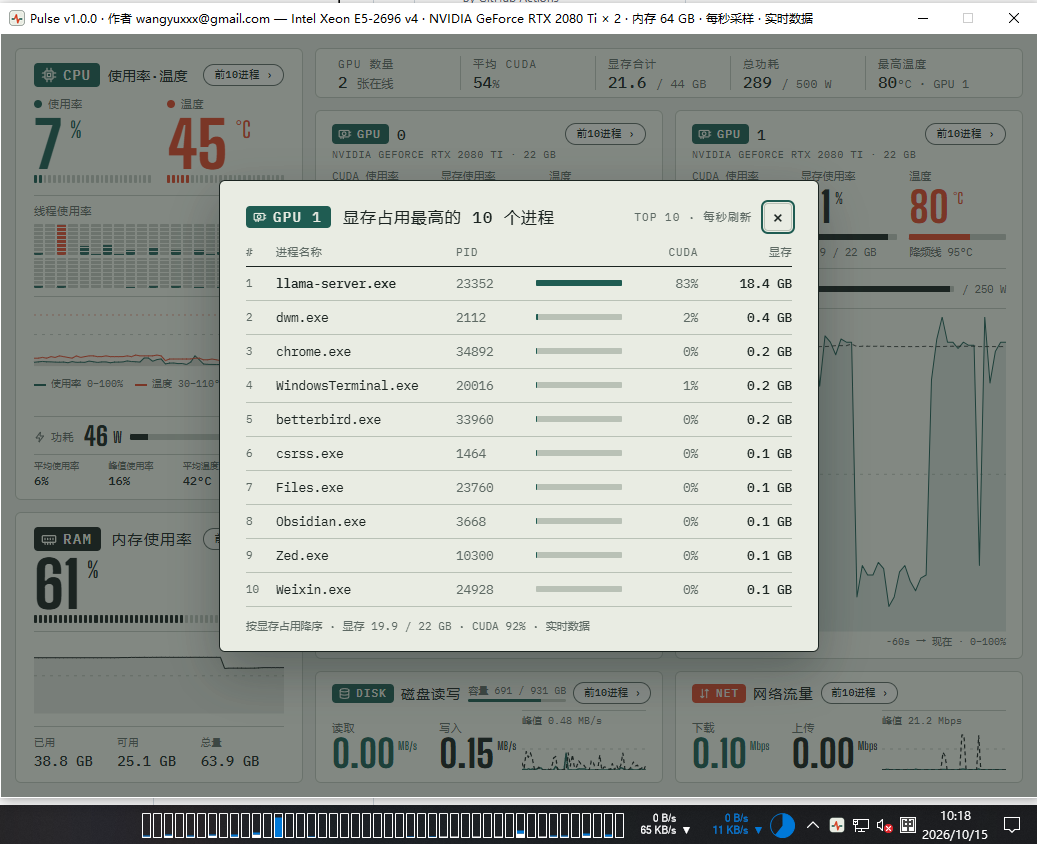
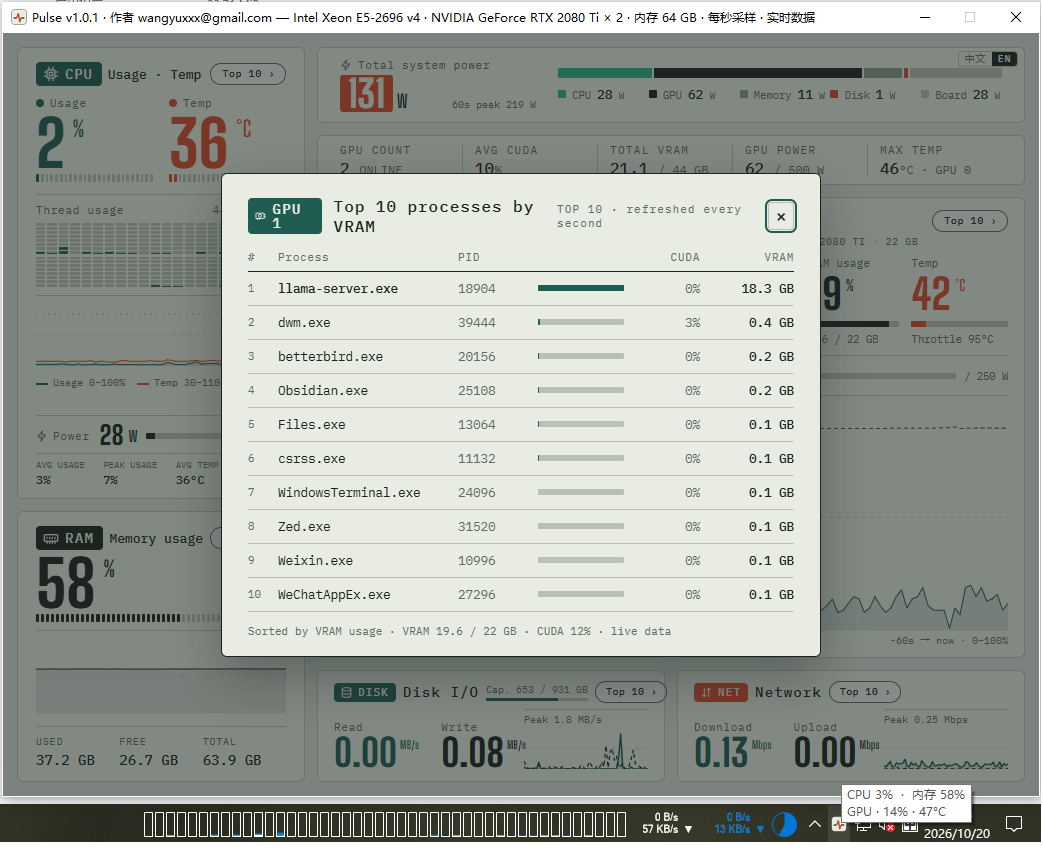
v1.0.1: 整机总功耗卡片, 中文/EN 切换, 更新截图

diff --git a/pulse.html b/pulse.html
@@ -1,6 +1,6 @@
 <!doctype html>
 <html lang="zh-CN"><head><meta charset="utf-8">
-<title>硬件监控 v1.0.0 · 作者 wangyuxxx@gmail.com — Intel Xeon E5-2699 v4 · NVIDIA RTX 4090 × 2 · 内存 64 GB · 每秒采样 · 模拟数据</title>
+<title>硬件监控 v1.0.1 · 作者 wangyuxxx@gmail.com — Intel Xeon E5-2699 v4 · NVIDIA RTX 4090 × 2 · 内存 64 GB · 每秒采样 · 模拟数据</title>
 <link rel="preconnect" href="https://fonts.googleapis.com"><link rel="preconnect" href="https://fonts.gstatic.com" crossorigin>
 <link href="https://fonts.googleapis.com/css2?family=Big+Shoulders+Display:wght@600;800&family=IBM+Plex+Mono:wght@400;500&display=swap" rel="stylesheet">
 <style>
@@ -101,7 +101,7 @@ body{background:var(--paper);color:var(--ink);font-family:"IBM Plex Mono","Micro
 .hit:active{transform:translateY(0);box-shadow:0 0 0 1px var(--ink) inset}
 .hit{transition:border-color .15s,box-shadow .15s,background .15s,transform .15s}
 .cpucol .head>span:last-child{display:none}
-.cpucol .head::after,.gh::after{content:"前10进程  ›";font:500 10px/1 "IBM Plex Mono","Microsoft YaHei",monospace;letter-spacing:.06em;white-space:nowrap;text-transform:none;color:var(--ink);border:1px solid var(--soft);border-radius:999px;padding:5px 10px 5px 11px;background:rgba(255,255,255,.35);transition:background .15s,color .15s,border-color .15s}
+.cpucol .head::after,.gh::after{content:var(--top10);font:500 10px/1 "IBM Plex Mono","Microsoft YaHei",monospace;letter-spacing:.06em;white-space:nowrap;text-transform:none;color:var(--ink);border:1px solid var(--soft);border-radius:999px;padding:5px 10px 5px 11px;background:rgba(255,255,255,.35);transition:background .15s,color .15s,border-color .15s}
 .cpucol .head::after{align-self:center}
 .gh{flex-wrap:wrap;align-items:center;row-gap:3px}
 .gh b{flex:1}
@@ -176,7 +176,7 @@ body{background:var(--paper);color:var(--ink);font-family:"IBM Plex Mono","Micro
 .clg span:last-child{margin-left:auto}
 .stats.s4{display:grid;grid-template-columns:1fr 1fr;gap:8px 0}
 
-.ih::after{content:"前10进程  ›";flex:none;font:500 10px/1 "IBM Plex Mono","Microsoft YaHei",monospace;letter-spacing:.04em;white-space:nowrap;color:var(--ink);border:1px solid var(--soft);border-radius:999px;padding:5px 9px 5px 10px;background:rgba(255,255,255,.35);transition:background .15s,color .15s,border-color .15s}
+.ih::after{content:var(--top10);flex:none;font:500 10px/1 "IBM Plex Mono","Microsoft YaHei",monospace;letter-spacing:.04em;white-space:nowrap;color:var(--ink);border:1px solid var(--soft);border-radius:999px;padding:5px 9px 5px 10px;background:rgba(255,255,255,.35);transition:background .15s,color .15s,border-color .15s}
 .ih small{margin-left:auto;letter-spacing:0}
 .dcap{margin-left:auto;display:flex;flex-direction:column;gap:3px;font-size:10px;line-height:11px;letter-spacing:0;white-space:nowrap;color:var(--soft)}
 .ih .dcap b{font-size:10px;font-weight:600;letter-spacing:0;color:var(--ink)}
@@ -214,9 +214,62 @@ body{background:var(--paper);color:var(--ink);font-family:"IBM Plex Mono","Micro
 .gsum div{padding-left:12px}
 .gsum b{font-size:16px}
 .dash{gap:12px}
+.sys{flex:none;display:grid;grid-template-columns:196px minmax(0,1fr);gap:22px;align-items:center;background:var(--card);color:var(--ink);border:1px solid var(--rule);border-radius:6px;padding:8px 22px;height:76px}
+.sys .sl{display:flex;flex-direction:column;gap:3px;min-width:0}
+.sys .sl label{display:flex;align-items:center;gap:6px;font-size:10.5px;letter-spacing:.1em;color:var(--soft);white-space:nowrap}
+.sys .sl label svg{flex:none}
+.sys .sn{display:flex;align-items:baseline;gap:6px;font-family:"Big Shoulders Display",sans-serif;font-weight:800;line-height:.9;font-variant-numeric:tabular-nums}
+.sys .sn b{font-size:38px;font-weight:800;letter-spacing:-.005em;padding:2px 8px 0;margin:0 -2px 0 0;background:#D9482B;color:var(--card);border-radius:3px}
+.sys .sn u{text-decoration:none;font-size:18px;font-weight:600;color:var(--ink)}
+.sys .sn small{margin-left:auto;font:400 10px "IBM Plex Mono","Microsoft YaHei",monospace;color:var(--soft);white-space:nowrap}
+.sys .sr{display:flex;flex-direction:column;gap:8px;min-width:0}
+.sys .sbar{display:flex;height:10px;gap:2px;border-radius:1px;overflow:hidden}
+.sys .sbar i{display:block;height:100%;min-width:2px;transition:width .6s}
+.sys .sbar.off i{display:none}
+.sys .sleg{display:grid;grid-template-columns:repeat(5,minmax(0,1fr));gap:0 10px}
+.sys .sleg div{display:flex;align-items:baseline;gap:6px;font-size:10.5px;color:var(--soft);white-space:nowrap;min-width:0}
+.sys .sleg i{flex:none;width:8px;height:8px;border-radius:1px;align-self:center}
+.sys .sleg b{font-weight:500;font-size:13px;color:var(--ink);font-variant-numeric:tabular-nums}
+.sys .sleg em{font-style:normal;font-size:10px;color:var(--soft)}
+:root{--top10:"前10进程  ›"}
+:root[data-lang=en]{--top10:"Top 10  ›"}
+:root[data-lang=en] .cpucol .panel .cpuhead b{text-transform:none;letter-spacing:0;gap:6px;font-size:13px}
+.sys{position:relative}
+.lang{position:absolute;top:3px;right:6px;display:flex;border:1px solid var(--rule);border-radius:4px;overflow:hidden;z-index:2}
+.lang button{font:500 10px/1 "IBM Plex Mono","Microsoft YaHei",monospace;letter-spacing:.06em;padding:2px 6px;background:none;border:0;color:var(--soft);cursor:pointer}
+.lang button[aria-pressed=true]{background:var(--ink);color:var(--card)}
+.lang button:focus-visible{outline:2px solid var(--usage);outline-offset:-2px}
 </style></head><body>
+<script>
+(function(){
+  var D={'整机总功耗':'Total system power','内存':'Memory','硬盘':'Disk','主板':'Board',
+  'GPU 数量':'GPU count','张在线':'online','平均 CUDA':'Avg CUDA','显存合计':'Total VRAM','GPU 功耗':'GPU power','最高温度':'Max temp',
+  'CUDA 使用率':'CUDA usage','核心负载':'Core load','显存使用率':'VRAM usage','温度':'Temp','降频线 95°C':'Throttle 95°C','功耗':'Power','显存':'VRAM',
+  '-60s → 现在 · 0–100%':'-60s → now · 0–100%','使用率·温度':'Usage · Temp','使用率':'Usage','使用率 0–100%':'Usage 0–100%','温度 30–110°C':'Temp 30–110°C','-60s → 现在':'-60s → now',
+  '线程使用率':'Thread usage','44 线程':'44 threads','平均使用率':'Avg usage','峰值使用率':'Peak usage','平均温度':'Avg temp','峰值温度':'Peak temp',
+  '内存使用率':'Memory usage','已用':'Used','可用':'Free','总量':'Total','磁盘读写':'Disk I/O','容量':'Cap.','读取':'Read','写入':'Write','网络流量':'Network','下载':'Download','上传':'Upload',
+  '磁盘容量:已用 1.43 TB,剩余 0.57 TB,共 2 TB (NVMe SSD)':'Disk capacity: 1.43 TB used, 0.57 TB free, 2 TB total (NVMe SSD)',
+  '各 CPU 线程使用率竖条图':'Per-thread CPU usage bar chart','查看占用最高的10个进程':'View top 10 processes','关闭':'Close',
+  '峰值':'Peak','60s 峰值':'60s peak','线程':'Thread','TOP 10 · 每秒刷新':'TOP 10 · refreshed every second','进程名称':'Process',
+  'CPU 占用最高的 10 个进程':'Top 10 processes by CPU','内存占用最高的 10 个进程':'Top 10 processes by memory','显存占用最高的 10 个进程':'Top 10 processes by VRAM',
+  '磁盘读写最高的 10 个进程':'Top 10 processes by disk I/O','网络流量最高的 10 个进程':'Top 10 processes by network traffic'};
+  var saved=null;try{saved=localStorage.getItem('hwm-lang')}catch(e){}
+  var L=window.L={D:D,lang:saved==='en'?'en':'zh'};
+  L.en=L.lang==='en';
+  /* t('峰值 ') keeps surrounding whitespace so callers can concatenate */
+  L.t=function(s){if(!L.en)return s;var k=s.trim();return D.hasOwnProperty(k)?s.replace(k,D[k]):s};
+})();
+</script>
 <div class="dash">
 <main class="gview" id="vGpu">
+  <div class="sys" id="sysPw" role="group" aria-label="整机总功耗">
+    <div class="lang" role="group" aria-label="Language / 语言"><button type="button" data-l="zh" aria-pressed="true">中文</button><button type="button" data-l="en" aria-pressed="false">EN</button></div>
+    <div class="sl"><label><svg viewBox="0 0 24 24" width="12" height="12" fill="none" stroke="currentColor" stroke-width="2" stroke-linecap="round" stroke-linejoin="round" aria-hidden="true"><path d="M13 2L4 14h7l-1 8 9-12h-7z"/></svg>整机总功耗</label><div class="sn"><b id="sysNum">--</b><u>W</u><small id="sysPk">60s 峰值 -- W</small></div></div>
+    <div class="sr">
+      <div class="sbar" id="sysBar"></div>
+      <div class="sleg" id="sysLeg"></div>
+    </div>
+  </div>
   <div class="gsum" id="gSum"></div>
   <div class="ggrid" id="gGrid"></div>
   <div class="gempty" id="gEmpty" hidden></div>
@@ -438,7 +491,7 @@ body{background:var(--paper);color:var(--ink);font-family:"IBM Plex Mono","Micro
       '<div>GPU 数量<b>'+n+' <small>张在线</small></b></div>'
       +'<div>平均 CUDA<b>'+(cs.length?Math.round(avg(cs)):'--')+'<small>%</small></b></div>'
       +'<div>显存合计<b>'+used.toFixed(1)+' <small>/ '+Math.round(tot*10)/10+' GB</small></b></div>'
-      +'<div>总功耗<b>'+(hasP?Math.round(sumP):'--')+' <small>/ '+(sumMax?Math.round(sumMax):'--')+' W</small></b></div>'
+      +'<div>GPU 功耗<b>'+(hasP?Math.round(sumP):'--')+' <small>/ '+(sumMax?Math.round(sumMax):'--')+' W</small></b></div>'
       +'<div>最高温度<b>'+(hot==null?'--':Math.round(hot))+'<small>°C'+(hot==null?'':' · GPU '+hi)+'</small></b></div>';
   }
 
@@ -480,6 +533,36 @@ body{background:var(--paper);color:var(--ink);font-family:"IBM Plex Mono","Micro
     $('dMax').textContent='峰值 '+ioFmt(dm)+' MB/s';
     $('nMax').textContent='峰值 '+ioFmt(nm)+' Mbps';
     renderDisk();
+    renderSys();
+  }
+
+  /* ---------- 整机总功耗 ----------
+     CPU = 封装功耗, GPU = 各卡功耗之和, 都是实测; 内存/硬盘/主板没有可靠的传感器, 按负载估算 (和画布一致)。
+     CPU 和 GPU 都读不到时整块显示 "--", 免得只剩估算值冒充实测。 */
+  var SYS=[['CPU','#2FB58A'],['GPU','#1B2421'],['内存','#8E9A92'],['硬盘','#D9482B'],['主板','#B9C1B6']],sysHist=[];
+  $('sysBar').innerHTML=SYS.map(function(x){return '<i style="background:'+x[1]+'"></i>'}).join('');
+  $('sysLeg').innerHTML=SYS.map(function(x,i){return '<div'+(i>1?' title="估算值"':'')+'><i style="background:'+x[1]+'"></i>'+x[0]+'<b>--</b><em>W</em></div>'}).join('');
+  function renderSys(){
+    var gpu=null,gmax=0,bars=$('sysBar').children,legs=$('sysLeg').children;
+    gs.forEach(function(g){if(g.p!=null)gpu=(gpu||0)+g.p;gmax+=g.max||0});
+    $('sysBar').classList.toggle('off',cpw==null&&gpu==null);
+    if(cpw==null&&gpu==null){
+      $('sysNum').textContent='--';$('sysPk').textContent='60s 峰值 -- W';
+      for(var k=0;k<SYS.length;k++){bars[k].style.width='0';legs[k].querySelector('b').textContent='--'}
+      return;
+    }
+    var c=cpw||0,g=gpu||0;
+    var ram=5+(mu!=null&&mt?mu/mt:.4)*11;
+    var disk=1.3+Math.min(1,((io.dr.last||0)+(io.dw.last||0))/900)*5.2;
+    var board=26+c/cpMax*9+(gmax?g/gmax*5:0);
+    var v=[c,g,ram,disk,board],tot=v.reduce(function(a,b){return a+b},0);
+    push(sysHist,tot);
+    $('sysNum').textContent=Math.round(tot);
+    $('sysPk').textContent='60s 峰值 '+Math.round(mx(sysHist))+' W';
+    for(var k=0;k<SYS.length;k++){
+      bars[k].style.width=(v[k]/tot*100).toFixed(1)+'%';
+      legs[k].querySelector('b').textContent=Math.round(v[k]);
+    }
   }
 
   /* ---------- 宿主入口 ---------- */
@@ -617,6 +700,56 @@ body{background:var(--paper);color:var(--ink);font-family:"IBM Plex Mono","Micro
   });
   pm.addEventListener('click',function(e){if(e.target===pm)close()});
   $('pClose').addEventListener('click',close);
+})();
+</script>
+<script>
+/* i18n: 中文 ⇄ English. Chinese is the source text; English is applied as a live overlay so the 1s data refresh stays translated. */
+(function(){
+  var D=L.D,root=document.documentElement;
+  var X={'硬件监控':'Hardware Monitor','作者':'by','每秒采样':'sampled every second','模拟数据':'simulated data',
+  '按 CPU 占用降序':'Sorted by CPU usage','按内存占用降序':'Sorted by memory usage','按显存占用降序':'Sorted by VRAM usage','总使用率':'Total usage',
+  '合计降序':' combined, descending','条形为合计占比':'bars show share of total','按':'Sorted by ','模拟估算':'estimated',
+  ' 线程':' threads','线程 ':'Thread ','线程':'Thread','张在线':'online','内存':'Memory','每秒刷新':'refreshed every second','进程':'processes'};
+  var keys,map=new WeakMap(),amap=new WeakMap();
+  Object.keys(X).forEach(function(k){D[k]=X[k]});
+  var X2={'温度 未检测到传感器 (需运行 LibreHardwareMonitor)':'Temp: no sensor detected (run LibreHardwareMonitor)','未检测到 NVIDIA 显卡':'No NVIDIA GPU detected','请确认已安装驱动且 nvidia-smi 可用':'Make sure the driver is installed and nvidia-smi works','等待数据':'Waiting for data','实时数据':'live data','暂无进程数据':'No process data','读取中…':'Loading…','磁盘容量:已用 ':'Disk capacity: used ',',剩余 ':', free ',',共 ':', total ','容量 ':'Cap. ','估算值':'Estimated'};
+  Object.keys(X2).forEach(function(k){D[k]=X2[k]});
+  /* single-word bits that must not be matched inside longer phrases are covered by longest-first ordering */
+  keys=Object.keys(D).sort(function(a,b){return b.length-a.length});
+  function tx(s){if(!/[\u3000-\u9fff]/.test(s))return s;keys.forEach(function(k){if(s.indexOf(k)>-1)s=s.split(k).join(D[k])});return s}
+  function txt(n){
+    var r=map.get(n);
+    if(!L.en){if(r&&n.data===r.en)n.data=r.zh;map.delete(n);return}
+    if(r&&n.data===r.en)return;
+    var en=tx(n.data);map.set(n,{zh:n.data,en:en});if(en!==n.data)n.data=en;
+  }
+  function attr(el,a){
+    var m=amap.get(el)||{};var r=m[a],v=el.getAttribute(a);if(v==null)return;
+    if(!L.en){if(r&&v===r.en)el.setAttribute(a,r.zh);delete m[a];return}
+    if(r&&v===r.en)return;
+    var en=tx(v);m[a]={zh:v,en:en};amap.set(el,m);if(en!==v)el.setAttribute(a,en);
+  }
+  function all(){
+    mo.disconnect();
+    var w=document.createTreeWalker(root,NodeFilter.SHOW_TEXT,null),n,list=[];
+    while(n=w.nextNode()){var p=n.parentNode.nodeName;if(p==='SCRIPT'||p==='STYLE')continue;if(n.parentNode.closest&&n.parentNode.closest('.lang'))continue;list.push(n)}
+    list.forEach(txt);
+    [].forEach.call(document.querySelectorAll('[title],[aria-label]'),function(el){if(el.closest('.lang'))return;attr(el,'title');attr(el,'aria-label')});
+    watch();
+  }
+  var mo=new MutationObserver(function(){if(L.en)all()});
+  function watch(){mo.observe(root,{subtree:true,childList:true,characterData:true,attributes:true,attributeFilter:['title','aria-label']})}
+  function set(lang){
+    L.en=lang==='en';L.lang=lang;
+    root.setAttribute('data-lang',lang);root.setAttribute('lang',L.en?'en':'zh-CN');
+    [].forEach.call(document.querySelectorAll('.lang button'),function(b){b.setAttribute('aria-pressed',b.dataset.l===lang?'true':'false')});
+    try{localStorage.setItem('hwm-lang',lang)}catch(e){}
+    all();
+  }
+  [].forEach.call(document.querySelectorAll('.lang button'),function(b){
+    b.addEventListener('click',function(e){e.stopPropagation();set(b.dataset.l)});
+  });
+  set(L.lang);
 })();
 </script>
 </body></html>

diff --git a/pulse.py b/pulse.py
@@ -39,6 +39,7 @@ import atexit
 import ctypes
 import itertools
 import json
+import os
 import re
 import struct
 import subprocess
@@ -96,7 +97,7 @@ ADMIN = is_admin()
 # 标题栏里要显示的名字/邮箱。改这里就行, 不用动 HTML。
 # 标题其余部分 (CPU 型号、显卡、内存) 都是启动时从本机读的, 见 _live_title。
 APP_NAME = "Pulse"
-APP_VERSION = "v1.0.0"
+APP_VERSION = "v1.0.1"
 APP_AUTHOR = "wangyuxxx@gmail.com"
 
 
@@ -979,7 +980,10 @@ def main():
     threading.Thread(target=_net.read, daemon=True).start()  # 提前开始抓包, 首次点开排行才有数据
     tray.start()  # 要在 webview.start() 之前: 后端要求先进消息循环, 之后设图标是不生效的
     try:
-        webview.start(lambda: sample_loop(window, loaded, stop, tray), icon=str(tray_mod.ICON))
+        # private_mode 默认开启, localStorage 退出即丢; 关掉并指定目录, 语言选择才能跨次启动保留
+        store = Path(os.environ.get("LOCALAPPDATA", Path.home())) / "Pulse" / "webview"
+        webview.start(lambda: sample_loop(window, loaded, stop, tray), icon=str(tray_mod.ICON),
+                      private_mode=False, storage_path=str(store))
     finally:
         tray.on_closed()
 
